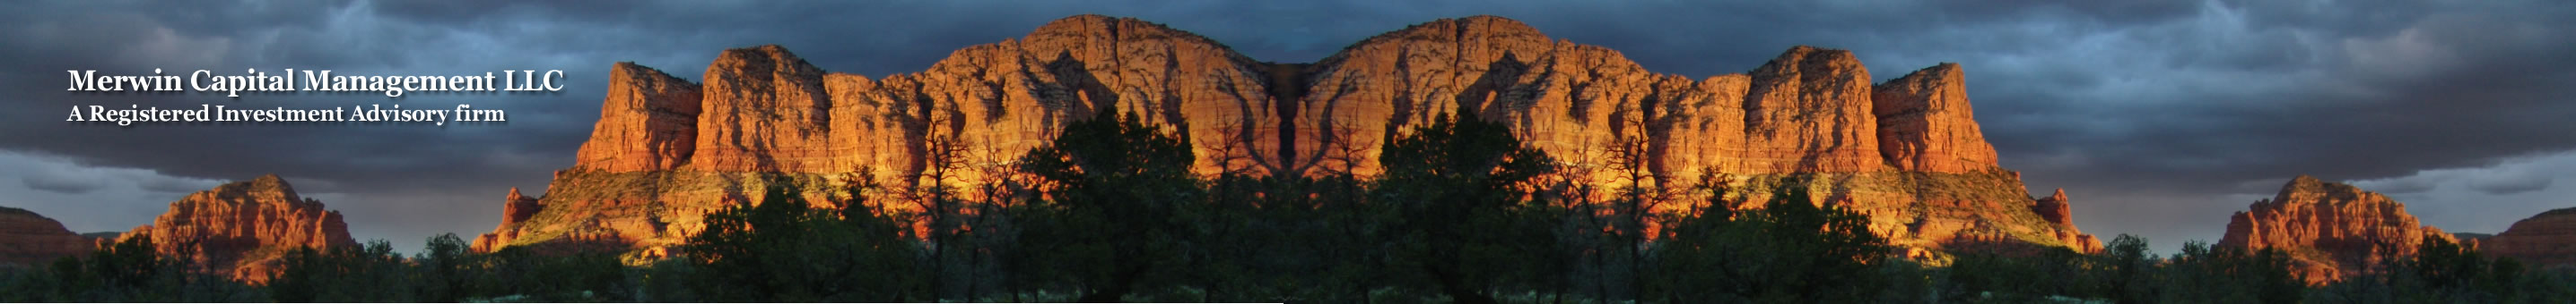
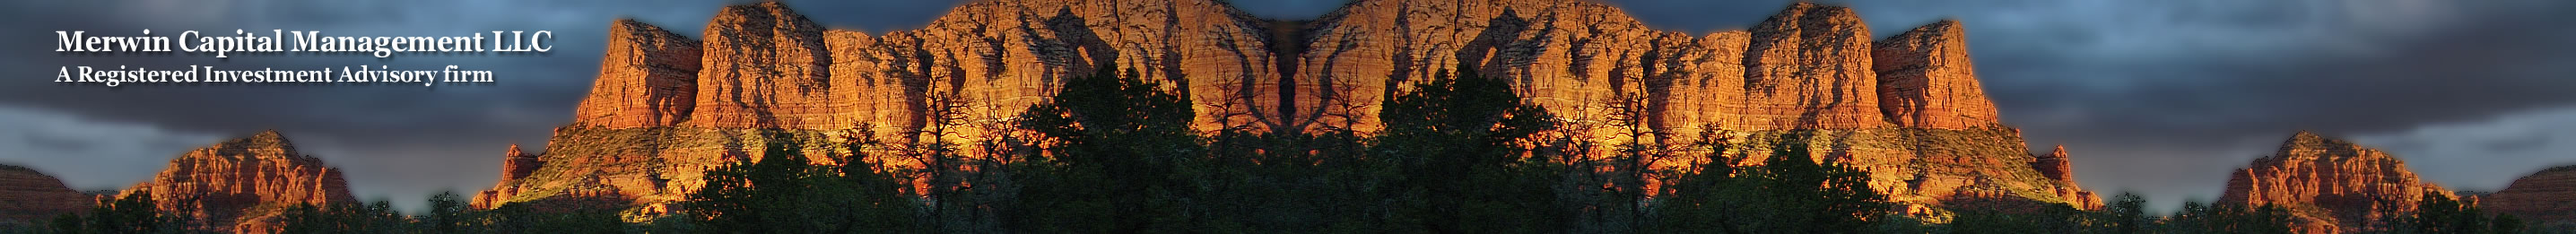
style updates

diff --git a/src/MCM/Content/Site.css b/src/MCM/Content/Site.css
@@ -3,7 +3,7 @@
     margin: 0;
     padding: 0;
     font-size: 14px;
-    background-color: #efefef;
+    background-color: #B5C7DB;
 }
 
 h3 {
@@ -69,12 +69,12 @@ input[type="checkbox"].input-validation-error {
     height: 40px;
     border-radius:25px;
     font-size: 18px;
-    background: #DA6F32;
-    background: -webkit-linear-gradient(#DA6F32, yellow); /* For Safari 5.1 to 6.0 */
-    background: -o-linear-gradient(#DA6F32, yellow); /* For Opera 11.1 to 12.0 */
-    background: -moz-linear-gradient(#DA6F32, yellow); /* For Firefox 3.6 to 15 */
-    background: linear-gradient(#9C6E3A, #ECC490); /* Standard syntax */
-    color: black;
+    background: #580D00;
+    background: -webkit-linear-gradient(#580D00, #911702); /* For Safari 5.1 to 6.0 */
+    background: -o-linear-gradient(#580D00, #911702); /* For Opera 11.1 to 12.0 */
+    background: -moz-linear-gradient(#580D00, #911702); /* For Firefox 3.6 to 15 */
+    background: linear-gradient(#580D00, #911702); /* Standard syntax */
+    color: white;
     padding-left: 0;
     
 }
@@ -82,7 +82,7 @@ input[type="checkbox"].input-validation-error {
 section {
     padding: 20px;
     margin-bottom: 60px;
-    background-color: #FFF4CC;
+    background-color: #BCD6BD;
     border: 3px black solid;
 }
     #superspan {
@@ -92,32 +92,36 @@ section {
     }
 
 .header-background {
-    height: 340px;
+    height: 260px;
     border-bottom: solid 2px black;
 }
 
 .title-image {
     background: Url("../images/desert_mountains.jpg") no-repeat;
-    height: 340px;
+    height: 260px;
     border-bottom: solid 2px black;
 }
 
-.siteTitle {
-    font-size: 36px;
-    padding-top: 40px;
-    color: white;
-}
-
-.subTitle {
-    font-size: 26px;
-    color: white;
+.contact-information {
+    float:right; 
+    height: 176px; 
+    width: 300px; 
+    border:solid 1px black; 
+    margin-top: 20px; 
+    background-color: #9FABF8; 
+    opacity: .80; 
+    position: absolute; 
+    right: 30px; 
+    bottom: 20px; 
+    padding: 15px; 
+    font-weight: bold;
 }
 
 .menu-container {
     float: left;
     padding-left: 40px;
     margin-bottom: 20px;
-    background-color: #7991A4;
+    background: url(/images/menu-background.jpg) repeat-x;
 }
 
 .menu-container ul {
@@ -145,6 +149,108 @@ section {
     color: #333;
 }
 
+.image-link {
+    min-height: 250px;
+    width: 100%;
+    display:inline-block;
+    background-repeat: no-repeat !important;
+}
+
+.image-link img {
+    max-width: 160px;
+}
+
+.image-link-banner {
+    padding: 8px;
+    background: white; 
+    opacity: .80; 
+    display:inline-block; 
+    color:black; 
+    margin-top: 10px; 
+    font-size: 16px;
+}
+
+.image-link-banner span {
+    margin-left: 5px;
+    white-space:nowrap;
+    font-size:12px;
+}
+
+@media (max-width: 650px) {
+    .header-background {
+        height: 198px;
+        border-bottom: solid 2px black;
+    }
+
+    .title-image {
+        background: Url("../images/m_desert_mountains.jpg") no-repeat;
+        height: 200px;
+        border-bottom: solid 1px black;
+    }
+
+    .contact-information {
+        float: right;
+        height: 126px;
+        width: 270px;
+        border: solid 1px black;
+        margin-top: 20px;
+        background-color: #9FABF8;
+        opacity: .80;
+        position: absolute;
+        right: 10px;
+        bottom: 10px;
+        padding: 15px;
+        font-weight: bold;
+        font-size: 11px;
+        padding-top: 0;
+    }
+    .contact-information h3 {
+        margin-bottom: 0;
+        margin-top:0;
+    }
+
+    .image-link {
+        background: none !important;
+        min-height:unset;
+    }
+
+    .image-link img {
+
+    }
+
+    .menu-container {
+        float: left;
+        padding-left: 0;
+        margin-bottom: 10px;
+        background-color: #7991A4;
+    }
+
+        .menu-container ul {
+            float: left;
+            margin-bottom: 0;
+            -webkit-padding-start: 5px;
+        }
+
+            .menu-container ul li {
+                list-style: none;
+                float: left;
+            }
+
+            .menu-container ul:after {
+                clear: both;
+            }
+
+            .menu-container ul li a {
+                padding-left: 5px;
+                padding-right: 5px;
+                padding-top: 5px;
+                font-size: 12px;
+                font-weight: bold;
+                display: inline-block;
+                height: 22px;
+                color: #333;
+            }
+}
 
 .financial-image {
     border: solid 3px black;
@@ -156,19 +262,12 @@ section {
 }
 
 @media screen and (max-width: 768px) {
-    .siteTitle {
-        font-size: 20px;
-        padding-top: 18px;
-        margin-left: 110px;
-    }
-
-    .subTitle {
-        font-size: 18px;
-        margin-left: 110px;
-    }
-
     .financial-image {
         display: none;
+    }
+
+    .image-link-banner span {
+        font-size: 11px;
     }
 }
 
@@ -332,12 +431,4 @@ figure {
     opacity: .8;
 }
 
-.image-link {
-    height: 250px;
-    width: 300px;
-    display:inline-block;
-}
 
-.image-link-banner {
-    width: 246px; height: 69px; padding-top: 10px; background: white; opacity: .80; display:inline-block; color:black; margin-top: 10px; font-size: 16px;
-}

diff --git a/src/MCM/App_Start/BundleConfig.cs b/src/MCM/App_Start/BundleConfig.cs
@@ -24,8 +24,8 @@
 
             bundles.Add(new StyleBundle("~/Content/css").Include(
                       "~/Content/bootstrap.css",
-                      "~/Content/site.css",
-                      "~/Content/bootstrap-override.css"));
+                      "~/Content/bootstrap-override.css",
+                      "~/Content/site.css"));
         }
     }
 }
